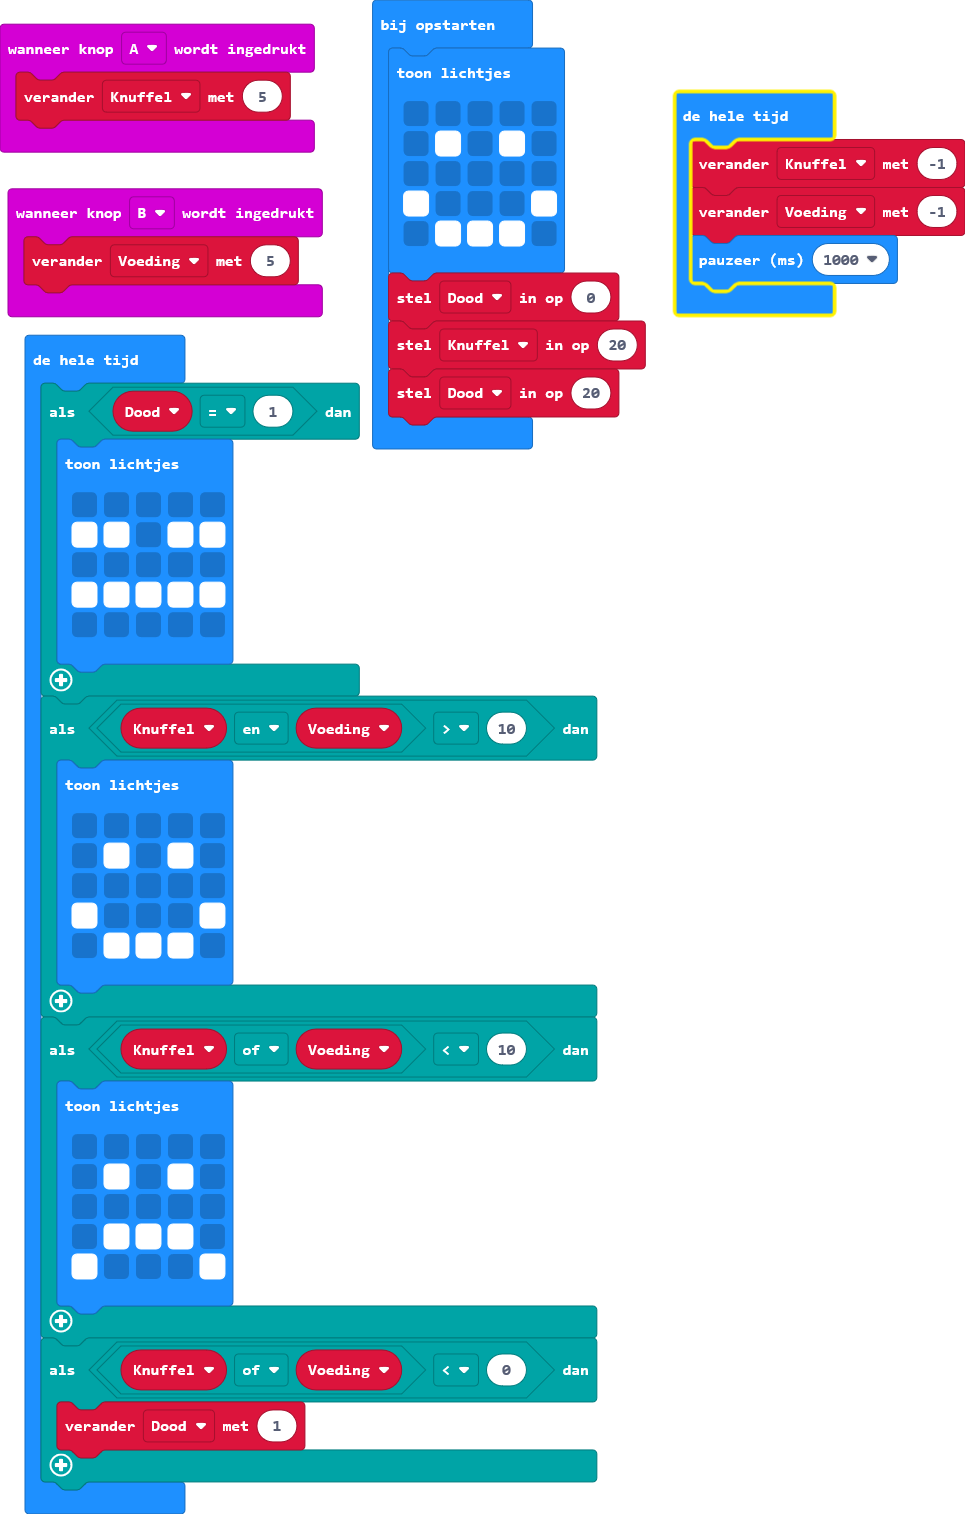
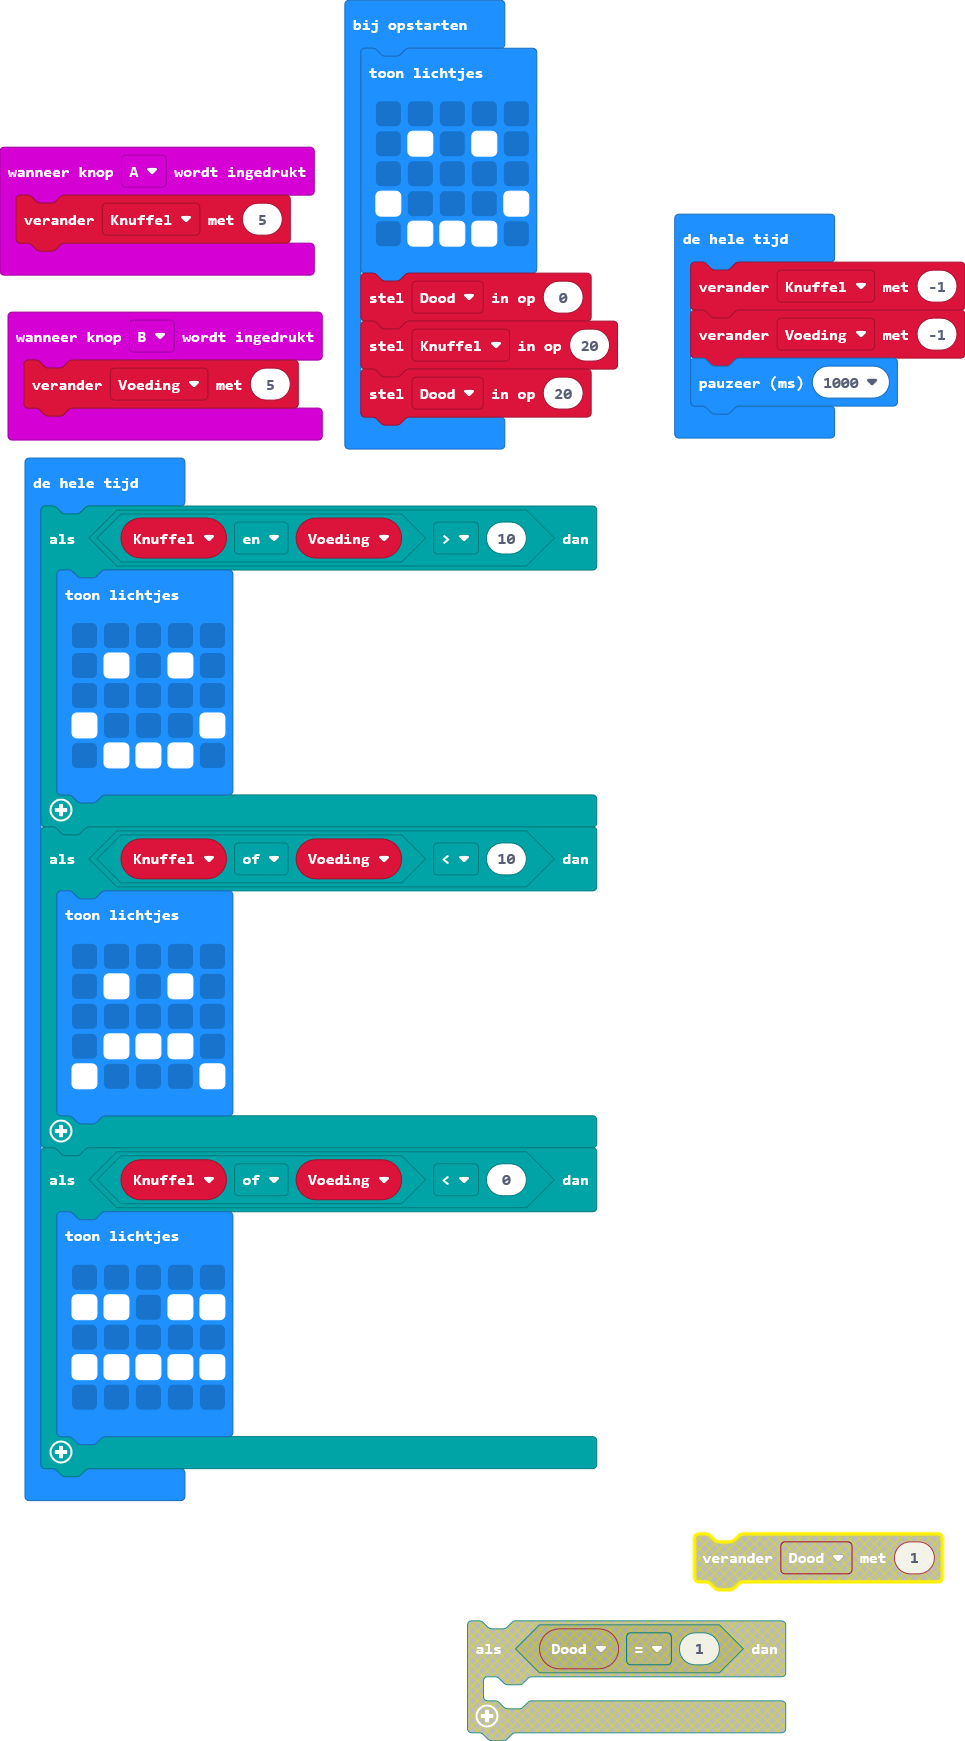
main.blocks, main.ts bijwerken

diff --git a/main.ts b/main.ts
@@ -21,15 +21,6 @@ basic.forever(function () {
     basic.pause(1000)
 })
 basic.forever(function () {
-    if (Dood == 1) {
-        basic.showLeds(`
-            . . . . .
-            # # . # #
-            . . . . .
-            # # # # #
-            . . . . .
-            `)
-    }
     if ((Knuffel && Voeding) > 10) {
         basic.showLeds(`
             . . . . .
@@ -49,6 +40,12 @@ basic.forever(function () {
             `)
     }
     if ((Knuffel || Voeding) < 0) {
-        Dood += 1
+        basic.showLeds(`
+            . . . . .
+            # # . # #
+            . . . . .
+            # # # # #
+            . . . . .
+            `)
     }
 })
